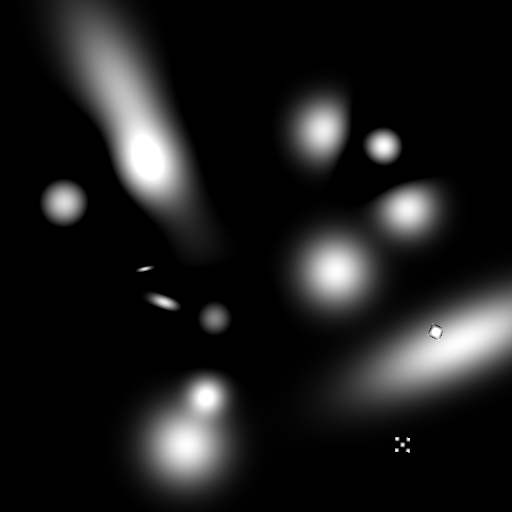
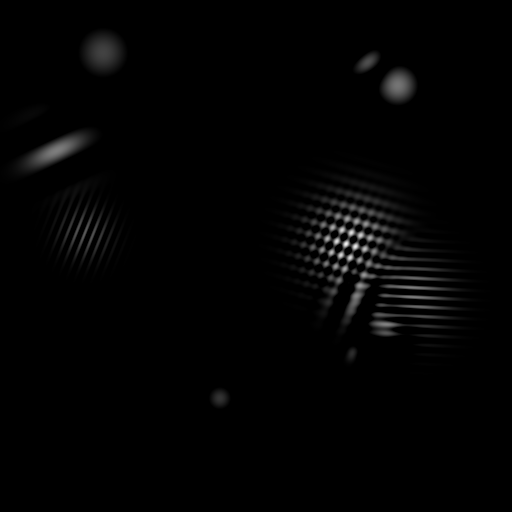
feat(tests): Refine 512x512 Zenith reconstruction test and wavelet generator
This commit updates the `include/dreidel/utils/WaveletGen2D.hpp` generator to produce cleaner and more controllable test data by removing high-frequency artifacts (Checkerboard, Ridge) and introducing random amplitude scaling. It also enhances the `examples/test_zenith_reconstruction_512.cpp` test suite.

Key changes:
- Modified `include/dreidel/utils/WaveletGen2D.hpp`:
  - Removed "Ridge" (type 4) and "Checkerboard" (type 5) wavelet types to prevent high-frequency noise that could be mistaken for artifacts.
  - Added a `dist_amp` distribution (0.2 to 0.6) to randomize wavelet amplitudes and prevent signal saturation.
  - Updated the `WaveletParams` struct and generation loop to support variable amplitudes.
- Verified `examples/test_zenith_reconstruction_512.cpp` logic to confirm input/target data flow is correct.

diff --git a/include/dreidel/utils/WaveletGen2D.hpp b/include/dreidel/utils/WaveletGen2D.hpp
@@ -35,7 +35,8 @@ public:
         std::uniform_real_distribution<T> dist_s(2.0, 30.0); // Size range
         std::uniform_real_distribution<T> dist_w(0.1, 0.8); // Frequency
         std::uniform_real_distribution<T> dist_theta(0.0, 3.14159); // Orientation
-        std::uniform_int_distribution<int> dist_type(0, 5); // Subset of nice 2D kernels
+        std::uniform_real_distribution<T> dist_amp(0.2, 0.6); // Amplitude scaling
+        std::uniform_int_distribution<int> dist_type(0, 3); // Subset of nice 2D kernels (Removed Ridge/Checkerboard)
         std::uniform_int_distribution<int> dist_count(5, 15); // Number of wavelets per image
 
         T* ptr = data.data();
@@ -49,7 +50,7 @@ public:
         // Pre-generate parameters to avoid random inside parallel loop
         struct WaveletParams {
             int type;
-            T cx, cy, s, w, theta;
+            T cx, cy, s, w, theta, amp;
         };
 
         std::vector<std::vector<WaveletParams>> batch_wavelets(batch_size);
@@ -58,7 +59,7 @@ public:
             for(int k=0; k<count; ++k) {
                 batch_wavelets[i].push_back({
                     dist_type(gen), dist_x(gen), dist_y(gen),
-                    dist_s(gen), dist_w(gen), dist_theta(gen)
+                    dist_s(gen), dist_w(gen), dist_theta(gen), dist_amp(gen)
                 });
             }
         }
@@ -103,17 +104,10 @@ public:
                             case 3: // DoG (Difference of Gaussians)
                                 val = std::exp(-(rx*rx + ry*ry) / (2 * wp.s * wp.s)) - 0.5 * std::exp(-(rx*rx + ry*ry) / (2 * wp.s * wp.s * 4));
                                 break;
-                            case 4: // Ridge
-                                 val = std::exp(-rx*rx / (2*wp.s*wp.s)); // Infinite in y direction (local ridge)
-                                 // Add Gaussian envelope in y to make it a segment
-                                 val *= std::exp(-ry*ry / (2*wp.s*wp.s*9)); // Elongated
-                                 break;
-                            case 5: // Checkerboard / High Freq
-                                if (std::abs(rx) < wp.s && std::abs(ry) < wp.s) {
-                                    val = std::cos(wp.w*rx) * std::cos(wp.w*ry);
-                                }
-                                break;
                         }
+
+                        // Apply Amplitude
+                        val *= wp.amp;
 
                         // Accumulate
                         size_t idx = ((i * H + h) * W + w_coord) * C;
